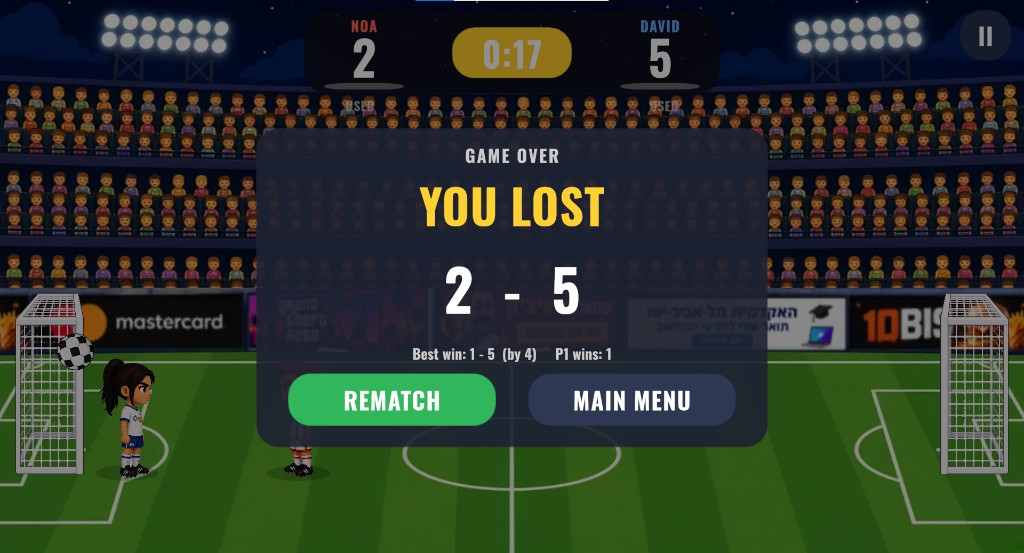
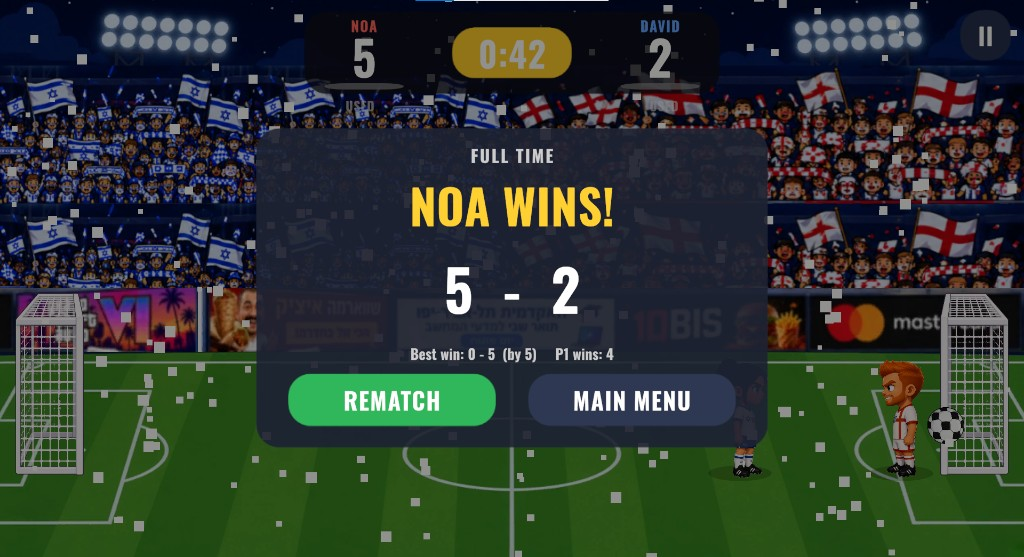
README: the game over screenshot is Noa beating David, with each side's crowd

diff --git a/README.md b/README.md
@@ -34,7 +34,7 @@ All from the Windows build.
 <th width="50%">Pause</th>
 </tr>
 <tr>
-<td width="50%" align="center"><img src="Docs/images/exe-gameover.png" alt="Game over" height="236"></td>
+<td width="50%" align="center"><img src="Docs/images/exe-gameover.png" alt="Full time: Noa wins 5-2 against David, Israeli crowd on the left and English crowd on the right" height="236"></td>
 <td width="50%" align="center"><img src="Docs/images/exe-pause.png" alt="Paused" height="236"></td>
 </tr>
 </table>
